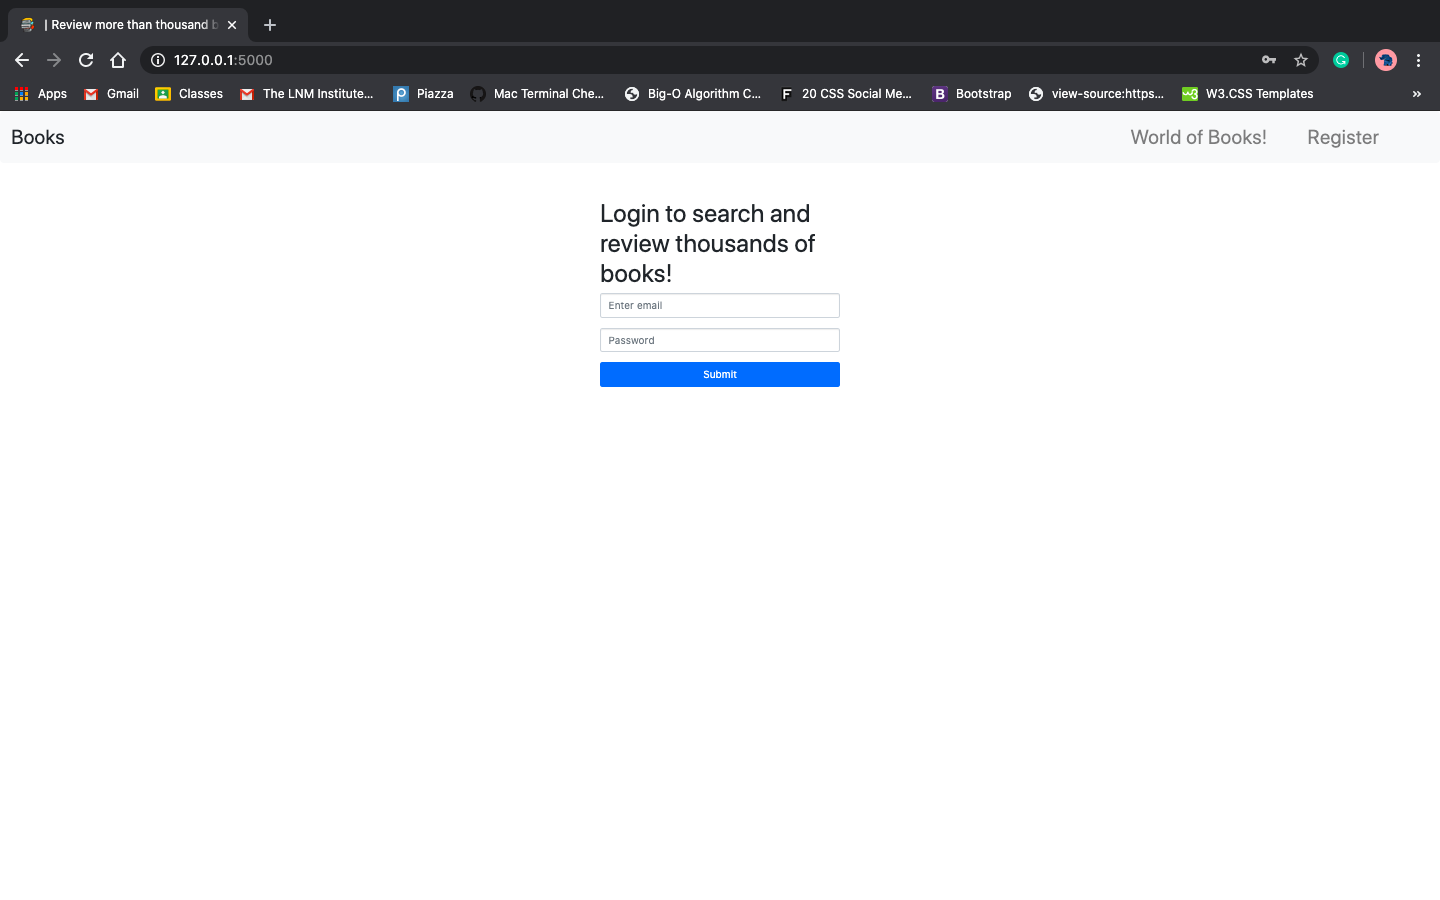
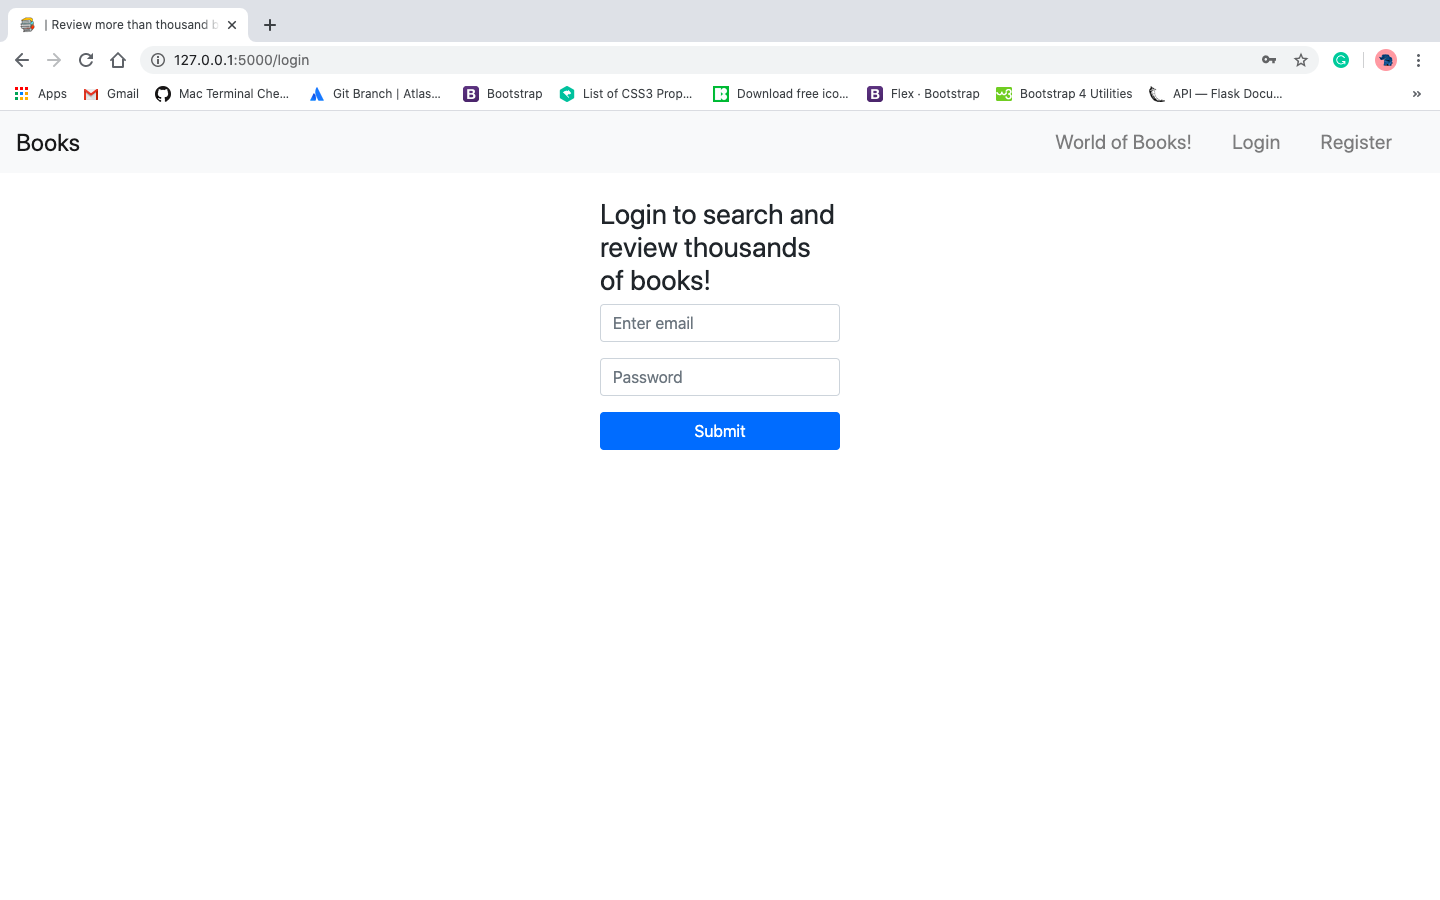
api request and screenshots added

Changed region(s): [[0.0, 0.0, 1.0, 0.1867], [0.4062, 0.2178, 0.5938, 0.4978]]

diff --git a/templates/register.html b/templates/register.html
@@ -1,37 +1,32 @@
 {% extends "layout.html" %}
 
 {% block head %}
-    <link href = "{{ url_for('static', filename = 'styles/register_style.css') }}"
-        rel = "stylesheet">
-
     <!--Icon-->
     <link href = "static/icons/icons8-login-64.png" rel = "icon">
 {% endblock %}
 
 {% block title %}
-    Register and walk through World of Books!
+     Register and walk through World of Books!
 {% endblock %}
 
 {% block body %}
-
-    <div class="container my-container">
-    <form action = "{{url_for('register_user')}}" method="post">
-        <div class = "form-text h1 login-input form-heading mt-4">
-            It ticks 15s while registering!
-        </div>
-        <div class = "form-group form-text h3">
-            <input type="email" class="form-control login-input" id="exampleInputEmail1"  aria-describedby="emailHelp" placeholder="Enter email" name="user_name">
-        </div>
-        <div class = "form-group">
-            <input type="password" class="form-control login-input" id="exampleInputPassword1" placeholder="Password" name = "user_pass">
-        </div>
-        <div class = "form-group">
-            <input type="password" class="form-control login-input" id="exampleInputPassword1" placeholder="Re-type Password" name="user_pass_re">
-        </div>
-        <div class="login-submit-container">
-        <button type="submit"class="btn btn-primary login-submit-button">Submit</button>
-      </div>
-  </form>
-  </div>
-
+    <div class="container container-fluid mt-5">
+        <form action = "{{url_for('register_user')}}" method="post">
+            <div class = "form-text h2 login-input form-heading">
+                It ticks 15s while registering!
+            </div>
+            <div class = "form-group form-text h3">
+                <input type="email" class="form-control login-input" id="exampleInputEmail1"  aria-describedby="emailHelp" placeholder="Enter email" name="user_name">
+            </div>
+            <div class = "form-group">
+                <input type="password" class="form-control login-input" id="exampleInputPassword1" placeholder="Password" name = "user_pass">
+            </div>
+            <div class = "form-group">
+                <input type="password" class="form-control login-input" id="exampleInputPassword1" placeholder="Re-type Password" name="user_pass_re">
+            </div>
+            <div class="login-submit-container">
+                <button type="submit"class="btn btn-primary login-submit-button">Submit</button>
+            </div>
+        </form>
+    </div>
 {% endblock %}

diff --git a/templates/book.html b/templates/book.html
@@ -6,7 +6,7 @@
 {% endblock %}
 
 {% block title %}
-      {{ book.title }}
+      {{qid}}{{ book[1] }}
 {% endblock %}
 
 {% block body %}
@@ -15,21 +15,21 @@
 	     	<div class="col-lg-8 col-md-6 col-8 pt-6 mb-3">
 	     	   	<div class="card">
 					<div class="card-header">
-						{{ book.author }}, {{ book.year }}
+						{{ book[2] }}, {{ book[3] }}
 					</div>
 	    			<div class="card-body">
 		            	<h5 class="card-title">
-                            <strong>{{ book.title }}</strong>
+                            <strong>{{ book[1] }}</strong>
                         </h5>
 		            	<p class="card-text">
-                            <strong>ISBN : </strong>{{ book.isbn }}<br>
-                            <strong>Goodreads Reviews : </strong> { }<br>
-			                <strong>Average Rating : </strong> { } <br>
+                            <strong>ISBN : </strong>{{ book[0] }}<br>
+                            <strong>Goodreads Reviews : </strong> {{ book[4] }}<br>
+			                <strong>Average Rating : </strong> {{ book[5] }} <br>
                         </p>
                         <a href="#review-form" class="btn btn-primary" data-toggle="collapse" role="button" aria-expanded="false" aria-controls="review-form">Write a review</a>
                     </div>
                     <div class="collapse" id="review-form">
-                        <form action="{{ url_for('user_review', book_isbn = book.isbn) }}" method="post">
+                        <form action="{{ url_for('user_review', book_isbn = book[0]) }}" method="post">
                             <div class="form-group review-form">
                                 <input type="text" class="form-control" id="book-review" name="book_review" aria-describedby="emailHelp" placeholder="Write a short review.">
                                 <div class="review-checkbox">

diff --git a/templates/login.html b/templates/login.html
@@ -10,22 +10,19 @@
 {% endblock %}
 
 {% block body %}
-    <div class="container my-container">
+    <div class="container container-fluid mt-4">
 		<form action = "{{url_for('login_session')}}" method="post">
-		    <div class = "form-text h3 login-input form-heading mt-4">
+		    <div class = "form-text h2 login-input form-heading">
 		    	Login to search and review thousands of books!
 		    </div>
 			<div class = "form-group form-text h2">
-			    <input type="email" class="form-control login-input" id="exampleInputEmail1" 	aria-describedby="emailHelp" name="user_name" placeholder="Enter email">
+			    <input type="email" class="form-control login-input" id="exampleInputEmail1" aria-describedby="emailHelp" name="user_name" placeholder="Enter email">
 			</div>
 			<div class = "form-group form-text h2">
-			    <input type="password" class="form-control login-input"
-			    id="exampleInputPassword1" name="user_pass" placeholder="Password">
+			    <input type="password" class="form-control login-input" id="exampleInputPassword1" name="user_pass" placeholder="Password">
 			</div>
-
 			<div class="login-submit-container">
-				<button type="submit" class="btn btn-primary login-submit-button">				Submit
-				</button>
+				<button type="submit" class="btn btn-primary login-submit-button"> Submit </button>
 			</div>
 		</form>
 	</div>

diff --git a/templates/homepage.html b/templates/homepage.html
@@ -4,8 +4,7 @@
     <style media="screen">
         .my-container
         {
-            /* margin: 5px; */
-            padding: 10px;
+            padding: 8px;
             border: 10px solid white;
             border-radius: 14px;
         }
@@ -20,24 +19,20 @@
 {% endblock %}
 
 {% block body %}
-	<div class = "container container-fluid search-container">
+	<div class = "container container-fluid search-container mt-3">
 		<div class = "row search-row justify-content-center">
 			{% for book  in books %}
 				<div class = "col-lg-4 col-md-5 col-sm-6 col-8 my-container bg-dark text-white">
 				  	<ul style="font-size: 20px">
-				  	<h1>{{ book.title }}</h1>
+				  	<h3>{{ book.title }}</h3>
 						<li> Author: {{ book.author }}</li>
 						<li> ISBN: {{ book.isbn }}</li>
 						<li> Year: {{ book.year }}</li>
 						<li> Average Ratings: </li>
+                        <li> Goodreads Count:</li>
 					</ul>
 				</div>
 			{% endfor %}
 		</div>
 	</div>
-
-	<footer class = "button">
-       	Andrømed &copy; 2020
-    </footer>
-
 {% endblock %}

diff --git a/templates/books.html b/templates/books.html
@@ -4,7 +4,7 @@
     <style media="screen">
         .container
         {
-            padding: 10px;
+            padding: 8px;
             <!-- border: 10px solid white; -->
         }
     </style>
@@ -17,10 +17,10 @@
 {% endblock %}
 
 {% block body %}
-	<div class="container container-fluid mt-4">
+	<div class="container container-fluid mt-3">
 		<div class="row justify-content-center">
 				{% for book in books %}
-                <div class="col-lg-4 col-md-5 col-sm-6 col-8 my-container mb-5">
+                <div class="col-lg-4 col-md-5 col-sm-6 col-8 my-container mb-4">
 					<div class="card">
 						<div class="card-header h5">
 							{{ book.author }}, {{ book.year }}
@@ -36,8 +36,4 @@
 				{% endfor %}
 			</div>
 		</div>
-
-	<footer class = "button">
-		Andrømed &copy; 2020
-	</footer>
 {% endblock %}

diff --git a/static/styles/style.css b/static/styles/style.css
@@ -1,3 +1,7 @@
+.navbar-brand {
+  font-size: 24px !important;
+}
+
 .login-input {
   width: 2.5in;
   margin-left: auto;
@@ -51,6 +55,10 @@ footer {
   text-decoration: none !important;
   text-align: center;
   font-size: 20px;
+  position: relative;
+  height: 100px;
+  margin-top: -100px;
+  clear: both;
 }
 
 /*Hower Over Effect*/

diff --git a/templates/search.html b/templates/search.html
@@ -14,7 +14,7 @@
 		<form action = "{{url_for('search')}}" method="post">
 			<div class = "form-text h2 login-input form-heading mt-4">
 				Hi []:) <br>
-				{{name}},<br><br>
+				{{name}},<br>
 				search and review thousands of books!
 			</div>
 			<div class = "form-group login-input form-text h3">

diff --git a/static/styles/style.scss b/static/styles/style.scss
@@ -76,6 +76,10 @@ footer
     text-decoration: none !important;
     text-align: center;
     font-size: 20px;
+    position: relative;
+    height: 100px;
+    margin-top: -100px;
+    clear: both;
 }
 
 /*Hower Over Effect*/

diff --git a/templates/layout.html b/templates/layout.html
@@ -45,5 +45,9 @@
     	</nav>
 
 		{% block body %}{% endblock %}
+
+		<footer class = "button">
+		    Andrømed &copy; 2020
+		</footer>
 	</body>
 </html>

diff --git a/application.py b/application.py
@@ -106,11 +106,11 @@ def login_session():
 		return render_template("error.html", message="Invalid username or password! It takes only 15s to register! Try registering.", prev_link="login")
 
 	else:
+		global uniq_id
 		unique_id = db.execute("SELECT id FROM user_details WHERE (username = :username AND password = :password)", {"username": user_name, "password": user_pass})
+
+		uniq_id = unique_id[0]["id"]
 		
-		global uniq_id 
-		uniq_id = unique_id.first()[0]
-	
 		name = user_name.split("@")
 		name = name[0]
 		return render_template("search.html" , name=name, nav1="Marked", link1="index", nav2="Logout", link2="index", books=books)
@@ -180,16 +180,13 @@ def book(details):
 	if details is None:
 		return render_template("error.html", message="URL not found!!", prev_link="search_book")
 	
-	book = db.execute("SELECT * FROM books WHERE isbn = :isbn", {"isbn": details}).fetchone()
-
-	if book is None:
-		return render_template("error.html", message = "No book with entered title / Invalid ISBN", prev_link="search_book")
+	book = book_api(details)
 	
 	return render_template("book.html" , qid=uniq_id, nav1="Search", link1="search_book", nav2="Logout", link2="login", book=book)
 
 
 @app.route("/user_review/<string:book_isbn>", methods=["GET", "POST"])
-def user_review(book_isbn: str):
+def user_review(book_isbn):
 
 	global uniq_id
 
@@ -210,19 +207,48 @@ def user_review(book_isbn: str):
 
 	book = db.execute("SELECT * FROM books WHERE isbn = :isbn", {"isbn": book_isbn}).fetchone()
 
-	return render_template("book.html", qid=uniq_id, nav1="Search", link1="search_book", nav2="Logout", link2="index", book=book, book_rating=book_rating, book_review=book_review)
+	return render_template("book.html", qid=session["user_id"], nav1="Search", link1="search_book", nav2="Logout", link2="index", book=book, book_rating=book_rating, book_review=book_review)
 
 
 """Avg Ratings and rating distribution, total count"""
 @app.route("/api/<string:details>", methods=["POST", "GET"])
 def book_api(details):
+
+	book_details = db.execute("SELECT * FROM books WHERE isbn = :isbn", {"isbn": details}).fetchone()
+
+	if book_details is None:
+		return render_template("error.html", message = "No book with entered title / Invalid ISBN", prev_link="search_book")
+	
 	res = requests.get("https://www.goodreads.com/book/review_counts.json",
-                       params={"key":  "P2LGOZuBDHH7LSzJZhnsA", "isbns": details}).json()
+                       params={"key": "ko689CsTUQ8ecggW4ootw", "isbns": details})
 	
 	if res.status_code != 200:
 		raise Exception("Error: API request failed!")
 	
-	rev_ratings = res['books'][0]
+	response = res.json()
+
+	count = response['books'][0]['reviews_count']
+	avg = response['books'][0]['average_rating']
+
+	book = {}
+
+	book[0] = book_details.isbn
+	book[1] = book_details.title
+	book[2] = book_details.author
+	book[3] = book_details.year
+	book[4] = count
+	book[5] = avg
+
+	if request.method is "GET":
+		return jsonify(title=book[1],
+						author=book[2], 
+						 year=book[3],
+						  isbn=book[0],
+						  review_count=book[4],
+    						average_score=book[5])
+	
+	else:
+		return book
 
 
 @app.route("/logout")
@@ -237,19 +263,6 @@ def homepage():
 	books = db.execute("SELECT * FROM books FETCH FIRST 15 ROW ONLY")
 	return render_template("homepage.html", nav1="Marked", link1="index", nav2="Logout", link2="login", books = books)
 
-def main():
-	details = input("ISBN: ")
-
-	res = requests.get("https://www.goodreads.com/book/review_counts.json", params={"key": "P2LGOZuBDHH7LSzJZhnsA", "isbns": details}).json()
-	
-	if res.status_code != 200:
-		raise Exception("Error: API request failed!")
-	
-	response = res['books']
-	rev_count = response['review_count']
-	avg_ratig = response['average_rating']
-
-	print(f"{rev_ratings}   {avg_ratig}")
 
 if __name__ == '__main__':
 	main()
